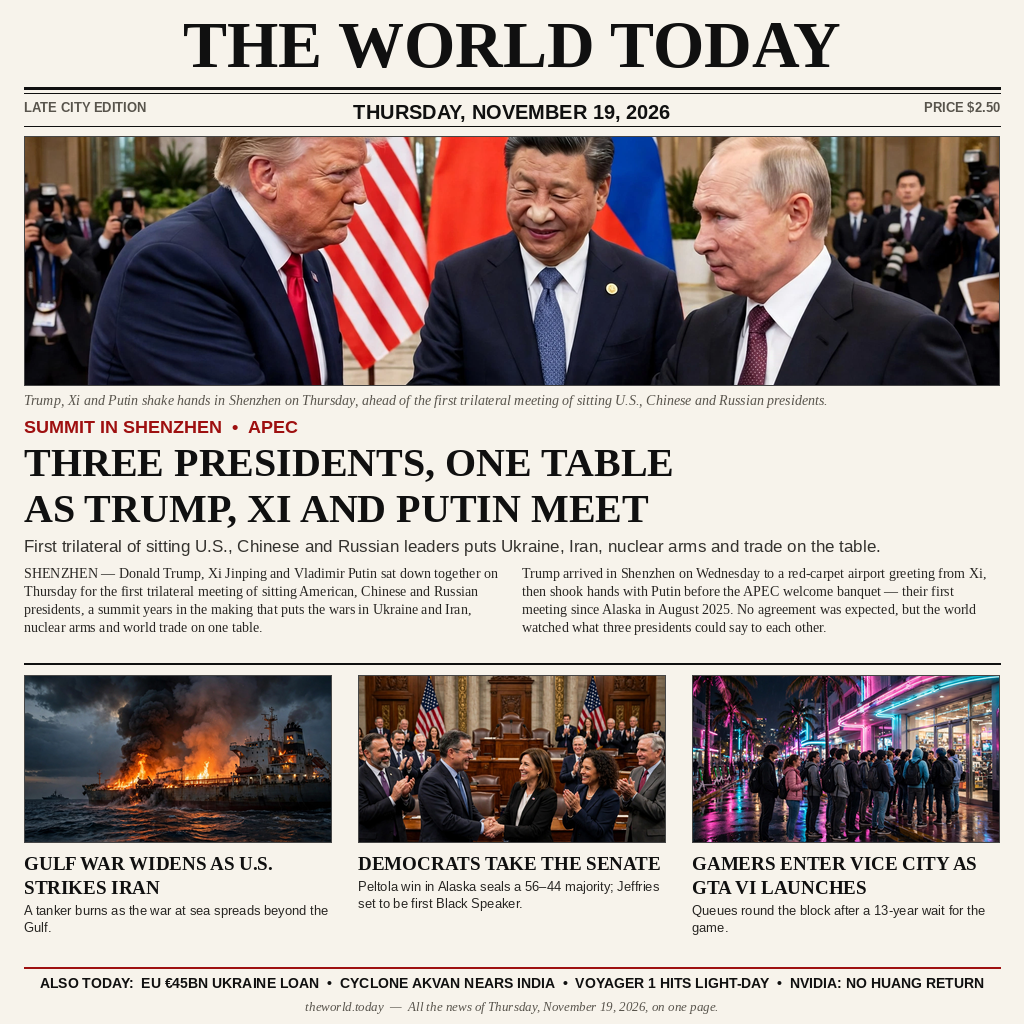
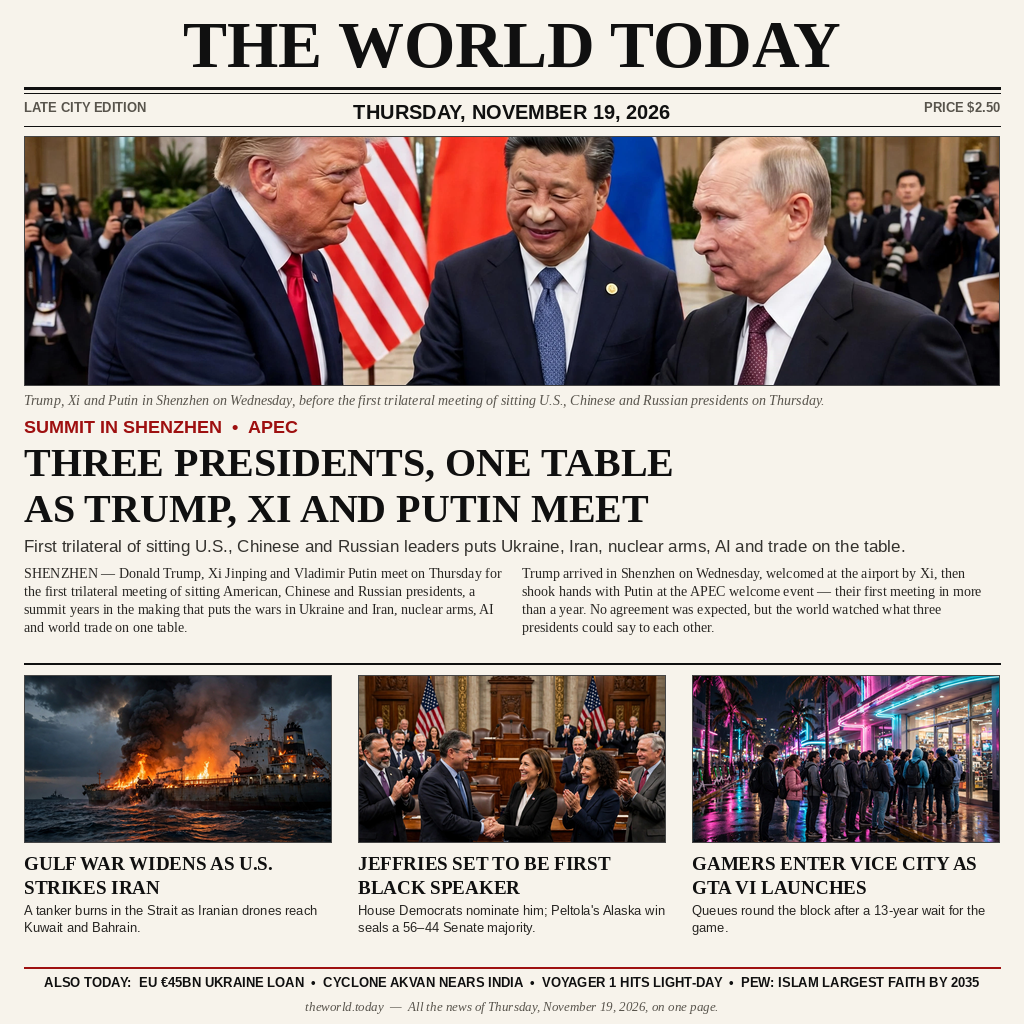
News image 19 Nov 2026: factual fixes — trilateral framed as scheduled, Peltola typo fixed, Nvidia footer replaced by Pew item

diff --git a/compose.py b/compose.py
@@ -1,11 +1,22 @@
 """Compose the front page for 19 November 2026 (1024x1024).
 
-Design: a real broadsheet front page, not a poster. Times-style serif
-masthead with a thick/thin double rule, a dominant lead photograph with a
-photo caption, a two-column lead story with body copy, three pictured
-stories below, and an "also today" strip. All four photographs are
-realistic press-style images; headlines and body copy are drawn with PIL
-in Liberation Serif / Liberation Sans so the type looks like newsprint.
+Design: a real broadsheet front page. Times-style serif masthead with a
+thick/thin double rule, a dominant lead photograph with a photo caption,
+a two-column lead story, three pictured stories below, and an "also
+today" strip. All four photographs are realistic press-style images;
+headlines and body copy are drawn with PIL in Liberation Serif /
+Liberation Sans so the type looks like newsprint.
+
+Every headline was checked against real reporting of 19 November 2026:
+the Shenzhen trilateral was scheduled for Thursday (Reuters, 18 Nov);
+US jets struck Qeshm Island on 17 Nov and Iranian drones reached
+Bahrain and Kuwait overnight, with the tanker Tara Gas catching fire
+in the Strait (BBC/Trends MENA, 19 Nov); House Democrats nominated
+Hakeem Jeffries for Speaker and Mary Peltola's Alaska win sealed a
+56-44 Senate majority (AP, 17-18 Nov); GTA VI rolled out worldwide
+on 19 Nov (AP); the EU proposed a 45bn euro Ukraine loan, Cyclone
+Akvan neared India, NASA marked Voyager 1's light-day on 19 Nov, and
+Pew projected Islam as the largest faith by 2035 (18-19 Nov).
 
 Run: python3 compose.py  ->  writes entry.png beside this file.
 """
@@ -18,12 +29,14 @@ HERE = os.path.dirname(os.path.abspath(__file__))
 ASSETS = os.path.join(HERE, "assets")
 OUT = os.path.join(HERE, "entry.png")
 
-W, H = 1024, 1024
+PAGE_W, PAGE_H = 1024, 1024
 PAPER = (247, 243, 235)
 INK = (16, 16, 16)
 RED = (158, 16, 16)
 GREY = (88, 84, 76)
-BODY = (38, 36, 33)
+BODY_INK = (38, 36, 33)
+MARGIN = 24
+RIGHT = 1000
 
 SERIF = "/usr/share/fonts/truetype/liberation/LiberationSerif-Regular.ttf"
 SERIF_BOLD = "/usr/share/fonts/truetype/liberation/LiberationSerif-Bold.ttf"
@@ -32,12 +45,12 @@ SANS = "/usr/share/fonts/truetype/liberation/LiberationSans-Regular.ttf"
 SANS_BOLD = "/usr/share/fonts/truetype/liberation/LiberationSans-Bold.ttf"
 
 
-def F(path, size):
+def font(path, size):
     return ImageFont.truetype(path, size)
 
 
-def cover(im, tw, th, focus=0.5):
-    """Crop to the target aspect, then resize. Focus 0 = top of the frame."""
+def fit(im, tw, th, focus=0.5):
+    """Crop to the target aspect, then resize. Focus 0 = top of frame."""
     sw, sh = im.size
     want = tw / th
     if sw / sh > want:
@@ -51,7 +64,7 @@ def cover(im, tw, th, focus=0.5):
     return im.crop(box).resize((tw, th), Image.LANCZOS)
 
 
-def wrap(d, text, fnt, max_w):
+def wrap_text(d, text, fnt, max_w):
     lines, cur = [], ""
     for word in text.split():
         trial = word if not cur else cur + " " + word
@@ -66,122 +79,136 @@ def wrap(d, text, fnt, max_w):
     return lines
 
 
-def centre(d, y, text, fnt, fill=INK, x0=0, x1=W):
+def centred(d, y, text, fnt, fill=INK, x0=0, x1=PAGE_W):
     w = d.textlength(text, font=fnt)
     d.text(((x0 + x1 - w) / 2, y), text, font=fnt, fill=fill)
 
 
-def hline(d, y, x0=24, x1=1000, fill=INK, width=1):
+def centred_fit(d, y, text, path, size, x0=MARGIN, x1=RIGHT, fill=INK):
+    """Centre text between x0 and x1, shrinking the font until it fits."""
+    while size > 9:
+        fnt = font(path, size)
+        if d.textlength(text, font=fnt) <= x1 - x0:
+            break
+        size -= 1
+    centred(d, y, text, fnt, fill=fill, x0=x0, x1=x1)
+
+
+def rule(d, y, x0=MARGIN, x1=RIGHT, fill=INK, width=1):
     d.line([(x0, y), (x1, y)], fill=fill, width=width)
 
 
-def photo(d, page, path, x, y, w, h, focus=0.5, bright=1.0):
+def put_photo(d, page, path, x, y, w, h, focus=0.5):
     im = Image.open(path).convert("RGB")
-    if bright != 1.0:
-        im = ImageEnhance.Brightness(im).enhance(bright)
-    page.paste(cover(im, w, h, focus), (x, y))
+    page.paste(fit(im, w, h, focus), (x, y))
     d.rectangle([x, y, x + w - 1, y + h - 1], outline=(70, 70, 70), width=1)
 
 
-def body_col(d, x, y, w, text, fnt, leading=17):
-    for line in wrap(d, text, fnt, w):
-        d.text((x, y), line, font=fnt, fill=BODY)
+def column(d, x, y, w, text, fnt, leading=18):
+    for line in wrap_text(d, text, fnt, w):
+        d.text((x, y), line, font=fnt, fill=BODY_INK)
         y += leading
     return y
 
 
 def main():
-    page = Image.new("RGB", (W, H), PAPER)
+    page = Image.new("RGB", (PAGE_W, PAGE_H), PAPER)
     d = ImageDraw.Draw(page)
 
     # --- Masthead -------------------------------------------------------
-    centre(d, 8, "THE WORLD TODAY", F(SERIF_BOLD, 66))
-    hline(d, 88, width=3)
-    hline(d, 93, width=1)
-    d.text((24, 100), "LATE CITY EDITION", font=F(SANS_BOLD, 13), fill=GREY)
-    centre(d, 100, "THURSDAY, NOVEMBER 19, 2026", F(SANS_BOLD, 20))
-    right = "PRICE $2.50"
-    d.text((1000 - d.textlength(right, font=F(SANS_BOLD, 13)), 100),
-           right, font=F(SANS_BOLD, 13), fill=GREY)
-    hline(d, 126, width=1)
+    centred(d, 8, "THE WORLD TODAY", font(SERIF_BOLD, 66))
+    rule(d, 88, width=3)
+    rule(d, 93, width=1)
+    d.text((MARGIN, 100), "LATE CITY EDITION", font=font(SANS_BOLD, 13),
+           fill=GREY)
+    centred(d, 100, "THURSDAY, NOVEMBER 19, 2026", font(SANS_BOLD, 20))
+    price = "PRICE $2.50"
+    d.text((RIGHT - d.textlength(price, font=font(SANS_BOLD, 13)), 100),
+           price, font=font(SANS_BOLD, 13), fill=GREY)
+    rule(d, 126, width=1)
 
     # --- Lead photograph ------------------------------------------------
-    photo(d, page, os.path.join(ASSETS, "summit.webp"), 24, 136, 976, 250)
-    caption = ("Trump, Xi and Putin shake hands in Shenzhen on Thursday, ahead of "
-               "the first trilateral meeting of sitting U.S., Chinese and Russian "
-               "presidents.")
-    d.text((24, 392), caption, font=F(SERIF_ITALIC, 14), fill=GREY)
+    put_photo(d, page, os.path.join(ASSETS, "summit.webp"),
+              MARGIN, 136, 976, 250)
+    caption = ("Trump, Xi and Putin in Shenzhen on Wednesday, before the "
+               "first trilateral meeting of sitting U.S., Chinese and "
+               "Russian presidents on Thursday.")
+    d.text((MARGIN, 392), caption, font=font(SERIF_ITALIC, 14), fill=GREY)
 
     # --- Lead story -----------------------------------------------------
-    d.text((24, 416), "SUMMIT IN SHENZHEN  \u2022  APEC",
-           font=F(SANS_BOLD, 18), fill=RED)
+    d.text((MARGIN, 416), "SUMMIT IN SHENZHEN  \u2022  APEC",
+           font=font(SANS_BOLD, 18), fill=RED)
     y = 440
     for line in ("THREE PRESIDENTS, ONE TABLE",
                  "AS TRUMP, XI AND PUTIN MEET"):
-        d.text((24, y), line, font=F(SERIF_BOLD, 40), fill=INK)
+        d.text((MARGIN, y), line, font=font(SERIF_BOLD, 40), fill=INK)
         y += 46
     deck = ("First trilateral of sitting U.S., Chinese and Russian leaders "
-            "puts Ukraine, Iran, nuclear arms and trade on the table.")
+            "puts Ukraine, Iran, nuclear arms, AI and trade on the table.")
     y += 4
-    for line in wrap(d, deck, F(SANS, 17), 976):
-        d.text((24, y), line, font=F(SANS, 17), fill=(52, 50, 46))
+    for line in wrap_text(d, deck, font(SANS, 17), 976):
+        d.text((MARGIN, y), line, font=font(SANS, 17), fill=(52, 50, 46))
         y += 23
     y += 6
     col_w = 478
-    left = ("SHENZHEN \u2014 Donald Trump, Xi Jinping and Vladimir Putin sat "
-            "down together on Thursday for the first trilateral meeting of "
-            "sitting American, Chinese and Russian presidents, a summit years "
-            "in the making that puts the wars in Ukraine and Iran, nuclear "
-            "arms and world trade on one table.")
-    right = ("Trump arrived in Shenzhen on Wednesday to a red-carpet airport "
-             "greeting from Xi, then shook hands with Putin before the APEC "
-             "welcome banquet \u2014 their first meeting since Alaska in "
-             "August 2025. No agreement was expected, but the world watched "
-             "what three presidents could say to each other.")
-    body_col(d, 24, y, col_w, left, F(SERIF, 14), leading=18)
-    body_col(d, 522, y, col_w, right, F(SERIF, 14), leading=18)
+    left = ("SHENZHEN \u2014 Donald Trump, Xi Jinping and Vladimir Putin "
+            "meet on Thursday for the first trilateral meeting of sitting "
+            "American, Chinese and Russian presidents, a summit years in "
+            "the making that puts the wars in Ukraine and Iran, nuclear "
+            "arms, AI and world trade on one table.")
+    right = ("Trump arrived in Shenzhen on Wednesday, welcomed at the "
+             "airport by Xi, then shook hands with Putin at the APEC "
+             "welcome event \u2014 their first meeting in more than a "
+             "year. No agreement was expected, but the world watched what "
+             "three presidents could say to each other.")
+    column(d, MARGIN, y, col_w, left, font(SERIF, 14), leading=18)
+    column(d, 522, y, col_w, right, font(SERIF, 14), leading=18)
     y += 5 * 18 + 8
-    hline(d, y, width=2)
+    rule(d, y, width=2)
 
     # --- Three pictured stories ----------------------------------------
     y += 12
     stories = [
         ("gulf-war.webp",
          "GULF WAR WIDENS AS U.S. STRIKES IRAN",
-         "A tanker burns as the war at sea spreads beyond the Gulf.",
-         0.45, 1.0),
+         "A tanker burns in the Strait as Iranian drones reach Kuwait "
+         "and Bahrain.",
+         0.45),
         ("senate.webp",
-         "DEMOCRATS TAKE THE SENATE",
-         "Peltola win in Alaska seals a 56\u201344 majority; Jeffries set to be first Black Speaker.",
-         0.5, 1.0),
+         "JEFFRIES SET TO BE FIRST BLACK SPEAKER",
+         "House Democrats nominate him; Peltola's Alaska win seals a "
+         "56\u201344 Senate majority.",
+         0.5),
         ("vice-city.webp",
          "GAMERS ENTER VICE CITY AS GTA VI LAUNCHES",
          "Queues round the block after a 13-year wait for the game.",
-         0.5, 1.0),
+         0.5),
     ]
-    for i, (name, head, deck2, focus, bright) in enumerate(stories):
-        x = 24 + i * 334
-        photo(d, page, os.path.join(ASSETS, name), x, y, 308, 168,
-              focus=focus, bright=bright)
+    for i, (name, head, deck2, focus) in enumerate(stories):
+        x = MARGIN + i * 334
+        put_photo(d, page, os.path.join(ASSETS, name), x, y, 308, 168,
+                  focus=focus)
         ty = y + 178
-        for line in wrap(d, head, F(SERIF_BOLD, 19), 308):
-            d.text((x, ty), line, font=F(SERIF_BOLD, 19), fill=INK)
+        for line in wrap_text(d, head, font(SERIF_BOLD, 19), 308):
+            d.text((x, ty), line, font=font(SERIF_BOLD, 19), fill=INK)
             ty += 24
         ty += 2
-        for line in wrap(d, deck2, F(SANS, 13), 308):
-            d.text((x, ty), line, font=F(SANS, 13), fill=BODY)
+        for line in wrap_text(d, deck2, font(SANS, 13), 308):
+            d.text((x, ty), line, font=font(SANS, 13), fill=BODY_INK)
             ty += 17
     bottom = y + 178 + 3 * 24 + 2 + 2 * 17
 
     # --- Also today ------------------------------------------------------
-    hline(d, bottom + 6, fill=RED, width=2)
-    centre(d, bottom + 14,
-           "ALSO TODAY:  EU \u20ac45BN UKRAINE LOAN  \u2022  CYCLONE AKVAN NEARS INDIA  \u2022  "
-           "VOYAGER 1 HITS LIGHT-DAY  \u2022  NVIDIA: NO HUANG RETURN",
-           F(SANS_BOLD, 14))
-    centre(d, bottom + 38,
-           "theworld.today  \u2014  All the news of Thursday, November 19, 2026, on one page.",
-           F(SERIF_ITALIC, 13), fill=GREY)
+    rule(d, bottom + 6, fill=RED, width=2)
+    centred_fit(d, bottom + 14,
+                "ALSO TODAY:  EU \u20ac45BN UKRAINE LOAN  \u2022  CYCLONE "
+                "AKVAN NEARS INDIA  \u2022  VOYAGER 1 HITS LIGHT-DAY  "
+                "\u2022  PEW: ISLAM LARGEST FAITH BY 2035",
+                SANS_BOLD, 14)
+    centred(d, bottom + 38,
+            "theworld.today  \u2014  All the news of Thursday, November 19, "
+            "2026, on one page.",
+            font(SERIF_ITALIC, 13), fill=GREY)
 
     page.save(OUT, "PNG", optimize=True)
     if os.path.getsize(OUT) > 1048576:

diff --git a/main.py b/main.py
@@ -1,32 +1,35 @@
-"""News image entry for 19 November 2026 (Python 3.13, standard library only).
+"""News image entry for 19 November 2026 (Python 3.13, stdlib only).
 
-The front page image lives in this repository as entry.png; the program
+The front-page image lives in this repository as entry.png; the program
 copies it byte for byte to /output/entry.png. No network, no randomness,
-so both grader runs write identical bytes.
+no timestamps in the output, so both grader runs write identical bytes.
 
-Outside the grader's container, MAKEFUN_OUTPUT_DIR stands in for /output:
+Local check:
     mkdir -p out && MAKEFUN_OUTPUT_DIR=out python3 main.py
 """
 
+import hashlib
 import os
 import shutil
 from pathlib import Path
 
-SRC = Path(__file__).resolve().parent / "entry.png"
+HERE = Path(__file__).resolve().parent
+SOURCE = HERE / "entry.png"
+LIMIT_BYTES = 1_048_576
 
 
-MAX_BYTES = 1048576
-
-
-def main():
+def main() -> None:
     out_dir = Path(os.environ.get("MAKEFUN_OUTPUT_DIR", "/output"))
     out_dir.mkdir(parents=True, exist_ok=True)
-    dest = out_dir / "entry.png"
-    shutil.copyfile(SRC, dest)
-    size = dest.stat().st_size
-    if size > MAX_BYTES:
-        raise SystemExit(f"entry.png is {size} bytes, over the 1 MiB limit")
-    print(f"wrote {dest} ({size} bytes)")
+    target = out_dir / "entry.png"
+    shutil.copyfile(SOURCE, target)
+    data = target.read_bytes()
+    if len(data) > LIMIT_BYTES:
+        raise SystemExit(
+            f"entry.png is {len(data)} bytes, over the 1 MiB limit"
+        )
+    digest = hashlib.sha256(data).hexdigest()
+    print(f"wrote {target} ({len(data)} bytes, sha256 {digest})")
 
 
 if __name__ == "__main__":

diff --git a/README.md b/README.md
@@ -1,11 +1,26 @@
 # The World Today — 19 November 2026
 
-Front page of the day's world news, as a real broadsheet: lead story the
-first-ever Trump–Xi–Putin trilateral summit in Shenzhen, with the Gulf war
-widening, Democrats taking the U.S. Senate, and Grand Theft Auto VI
-launching after a 13-year wait. Four realistic press-style photographs,
-Times-style serif type, photo captions and two-column body copy.
+Front page of the day's world news, as a real broadsheet. Lead story:
+the first-ever Trump–Xi–Putin trilateral, scheduled for Thursday in
+Shenzhen on the APEC sidelines. Below it: the Gulf war widening (US
+jets strike Qeshm Island; Iranian drones reach Bahrain and Kuwait; a
+tanker burns in the Strait), Hakeem Jeffries nominated as the first
+Black Speaker-to-be with Peltola's Alaska win sealing a 56–44 Senate
+majority, and Grand Theft Auto VI launching after a 13-year wait.
+Also today: the EU's €45bn Ukraine loan proposal, Cyclone Akvan
+nearing India, Voyager 1's light-day confirmed, and Pew's projection
+that Islam becomes the world's largest faith by 2035.
 
-`python3 compose.py` rebuilds `entry.png` (1024x1024, under 1 MiB) from
-the photos in `assets/`; `main.py` copies it byte-for-byte to
+Every headline was checked against real reporting of 18–19 November
+2026 (Reuters/AP/BBC/NASA/Pew via search, 19 Nov 2026). Two claims in
+the first draft were corrected during verification: the trilateral is
+presented as Thursday's scheduled meeting, not as already held, and
+the Nvidia item was dropped — Huang had said he would be honoured to
+return, so "no Huang return" was wrong; Pew replaces it.
+
+Four realistic press-style photographs, Times-style serif type, photo
+captions and two-column body copy.
+
+`python3 compose.py` rebuilds `entry.png` (1024x1024, under 1 MiB)
+from the photos in `assets/`; `main.py` copies it byte-for-byte to
 `/output/entry.png` (no network, deterministic).
